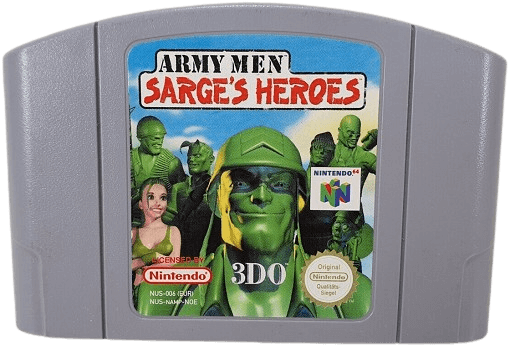
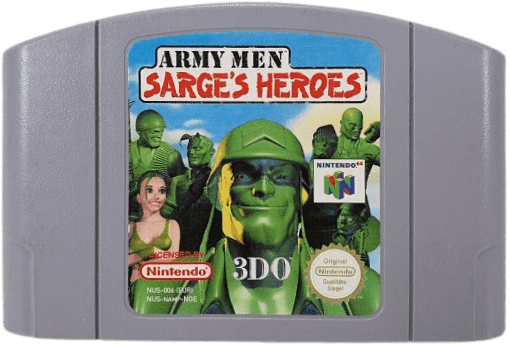
Update
More MK media
Fixed Army Men cart image
Article about oddities!

diff --git a/Blog/Features/2026/Misc/b269.html b/Blog/Features/2026/Misc/b269.html
@@ -1,0 +1,56 @@
+<div id="b269" class="card">
+	<h2><span class="badge tech"><i class="fa-solid fa-pen-to-square"></i></span> <span class="title">Variants, Oddities & Mysteries</span></h2>
+	<h5 class="subtitle">Interesting Brazilian/Spanish Finds ~ Jan 12, 2025</h5>
+	<div class="bgChat" style="background-image:url('Covers/U/Tonic Trouble U.png'); background-position: top; image-rendering: smooth;"><div class="overlaytext">Variants, Oddities & Mysteries</div></div>
+	<h4>Mexico/South America</h4>
+	<div class="titleUnderline"></div>
+	<p>When the Nintendo 64 was released, there were more than a few regional variants produced for specific countries. Throughout my ongoing odyssey to collate all the necessary media for the ReCollect64 Collectors App, I have noted plenty of variations of games that I previously had no idea existed, including one of my biggest discoveries, the previously uncatalogued SCN Scandinavian viariant of <a href="https://defaultdnb.github.io/ReCollect64/blog.html#b21">Rampage World Tour</a>.</p>
+	<p>In recent weeks I have fixed, added, and removed plenty of variants, but having reached "M" in my database, I noted one game variant that was particularly hard to find. <i>Monaco Grand Prix</i> was released in the USA, Canada, and also the much more sparse MSA (Mexico/South America) region. Though there is only one known ROM version of the NTSC cartridge, and they're all coded <b>NUS-NMGE-USA</b>, the outer packaging varies a little regionally, so I sought to document each one individually for completeness.</p>
+	<p>I first heard about a <a href="https://www.videogamesage.com/forums/topic/8976-msa-nintendo-64-region-code/#findComment-351187">"Spanish-backed" variant of the game back in 2023</a>; however, this illusive version proved extremely difficult to locate media for, and so I threw it over to the one person I knew could assist me in the hunt, my good friend JosetteTrinkets, who asked whether I had some other examples of Spanish-backed variants.</p>
+	<p>Having shared a bunch of previously found images as examples (below), we noted a few things. Firstly, each of these titles are Ubisoft published games (then known as Ubi Soft, no, it's not a Mandela Effect). Secondly, most Ubisoft-published game had a Brazilian release through Gradiente, except for a handful, and that handful just so happened to be the ones that we were finding "Spanish-backed". Last of all, we noted that <b><i>Tonic Trouble</i></b> is the only game on that list that hasn't had a Gradiente release, nor has it shown up as a Spanish-backed variant yet!</p>
+	<center>
+		<a title="" href="" onclick="window.open('Backs/ALTU/Buck Bumble ALTU.png','targetWindow', 'toolbar=no, location=no, status=no, menubar=no, scrollbars=no, resizable=no, width=600px, Height=450px, top=150px left=350px'); return false;"><img style="border: 1px solid black;" class="thumbnail" src="Backs/ALTU/Buck Bumble ALTU.png" width="30%" style="padding:auto"/></a>
+		<a title="" href="" onclick="window.open('Backs/ALTU/Rocket Robot on Wheels ALTU.png','targetWindow', 'toolbar=no, location=no, status=no, menubar=no, scrollbars=no, resizable=no, width=600px, Height=450px, top=150px left=350px'); return false;"><img style="border: 1px solid black;" class="thumbnail" src="Backs/ALTU/Rocket Robot on Wheels ALTU.png" width="30%" style="padding:auto"/></a>
+		<a title="" href="" onclick="window.open('Backs/ALTU/S.C.A.R.S. ALTU.png','targetWindow', 'toolbar=no, location=no, status=no, menubar=no, scrollbars=no, resizable=no, width=600px, Height=450px, top=150px left=350px'); return false;"><img style="border: 1px solid black;" class="thumbnail" src="Backs/ALTU/S.C.A.R.S. ALTU.png" width="30%" style="padding:auto"/></a>
+	</center>
+	<p>Follwoing this, one individual image was located for <i>Monaco Grand Prix</i>. The quality is exceptionally low, though most obscure variant images are, so this will have to do for now. If anyone can assist in the scanning and sharing of better quality media for these variants, please feel free to message me at any time because preservation is critical for these obscure versions, as the soft, frail cardboard containers won't last forever.</p>
+	<center>	
+		<a title="" href="" onclick="window.open('Backs/ALTU/Monaco Grand Prix ALTU.png','targetWindow', 'toolbar=no, location=no, status=no, menubar=no, scrollbars=no, resizable=no, width=600px, Height=450px, top=150px left=350px'); return false;"><img style="border: 1px solid black;" class="thumbnail" src="Backs/ALTU/Monaco Grand Prix ALTU.png" width="30%" style="padding:auto"/></a>
+	</center>
+	<center><p><i>(Thanks to JosetteTrinkets' unique ability to seek-out incredibly niche things for the Nintendo 64, we finally have an image to go alongside an otherwise rare/unseen game variant!)</p></i></center>
+	<p></p>
+	<h4>The Ubisoft Anomaly</h4>
+	<div class="titleUnderline"></div>
+	<p>Double-checking my data, Ubisoft released <b>11</b> individual games on the Nintendo 64 between 1997 and 2001, with a couple of regional variants within that shortlist. These titles were <i>All Star Tennis (Yannik Noah All Star Tennis), Batman Beyond (Batman of the Future), Buck Bumble, Donald Duck (Goin' Quackers/Quack Attack), F1 Pole Position (Human Grand Prix), F1 Racing Championship, Monaco Grand Prix/Monaco Racing Simulation 2/Racing Simulation 2, Rayman 2: The Great Escape, Rocket: Robot on Wheels, S.C.A.R.S.</i> and <i>Tonic Trouble</i>.</p>
+	<p>Of these 11 games, just <b>7</b> were released in Brazil through Gradiente (<i>All Star Tennis, Batman, Buck Bumble, Donald Duck, F1 Pole Position, F1 Racing Challenge (note: this is the only NTSC version of the ROM and the only release outside of Europe), and Rayman 2: The Great Escape</i>).</p>
+	<p><b>Three</b> of the remaining four - <i>Monaco, Rocket</i>, and <i>SCARS</i>, though unreleased in Brazil, did get Spanish variants as mentioned above, but <i>Tonic Trouble</i> remains notably absent from this line-up, so does that theoretically mean that there is a Spanish-backed variant of <i>Tonic Trouble</i> out there waiting to be catalogued?</p>
+	<p>Interestingly, most of the Spanish-backed variants located appear to be stickers applied to the back of the NTSC USA release boxes in order to make them regionally appealing to people who speak Spanish (including Argentina, Colombia, and Mexico). Due to high lexical similarities, Spanish is often easily understood by Portuguese-speaking countries as well, which means that Nintendo 64 fans in Brazil could quite easily adopt these versions to add to their collections because they could also read the boxes.</p>
+	<center>	
+		<a title="" href="" onclick="window.open('Covers/E/Tonic Trouble E.png','targetWindow', 'toolbar=no, location=no, status=no, menubar=no, scrollbars=no, resizable=no, width=600px, Height=450px, top=150px left=350px'); return false;"><img style="border: 1px solid black;" class="thumbnail" src="Covers/E/Tonic Trouble E.png" width="30%" style="padding:auto"/></a>
+		<a title="" href="" onclick="window.open('Covers/CAN/Tonic Trouble CAN.png','targetWindow', 'toolbar=no, location=no, status=no, menubar=no, scrollbars=no, resizable=no, width=600px, Height=450px, top=150px left=350px'); return false;"><img style="border: 1px solid black;" class="thumbnail" src="Covers/CAN/Tonic Trouble CAN.png" width="30%" style="padding:auto"/></a>
+		<a title="" href="" onclick="window.open('Covers/U/Tonic Trouble U.png','targetWindow', 'toolbar=no, location=no, status=no, menubar=no, scrollbars=no, resizable=no, width=600px, Height=450px, top=150px left=350px'); return false;"><img style="border: 1px solid black;" class="thumbnail" src="Covers/U/Tonic Trouble U.png" width="30%" style="padding:auto"/></a>
+	</center>
+	<center><p><i>(Tonic Trouble released in Europe, USA and Canada as a variant which had a bonus collectible phone card inside. Monaco Grand Prix was also released in Canada with a similar bonus collectible phone card offer).</i></p></center>
+	<h4>Other Oddities</h4>
+	<div class="titleUnderline"></div>
+	<p>One last thing I wanted to touch on are other regional variants that had similar Spanish backs or are regionally exclusive within Brazil/MSA regions. <i>Fighters Destiny</i>, published by Imagineer, oddly, has a variant that is USA coded but has a Spanish-language version box back. The front cover and cartridge are USA versions, but the back is quite unique.</p>
+	<center>	
+		<a title="" href="" onclick="window.open('Covers/U/Fighters Destiny U.png','targetWindow', 'toolbar=no, location=no, status=no, menubar=no, scrollbars=no, resizable=no, width=600px, Height=450px, top=150px left=350px'); return false;"><img style="border: 1px solid black;" class="thumbnail" src="Backs/U/Fighters Destiny U.png" width="30%" style="padding:auto"/></a>
+		<a title="" href="" onclick="window.open('Backs/ALTU/Fighters Destiny ALTU.png','targetWindow', 'toolbar=no, location=no, status=no, menubar=no, scrollbars=no, resizable=no, width=600px, Height=450px, top=150px left=350px'); return false;"><img style="border: 1px solid black;" class="thumbnail" src="Backs/ALTU/Fighters Destiny ALTU.png" width="30%" style="padding:auto"/></a>
+		<a title="" href="" onclick="window.open('Carts/U/Fighters Destiny U.png','targetWindow', 'toolbar=no, location=no, status=no, menubar=no, scrollbars=no, resizable=no, width=600px, Height=450px, top=150px left=350px'); return false;"><img style="border: 1px solid black;" class="thumbnail" src="Carts/U/Fighters Destiny U.png" width="30%" style="padding:auto"/></a>
+	</center>
+	<p>As mentioned above, the Brazilian Gradiente version of <i>F1 Racing Championship</i> is another unusual example, as it is the only NTSC release of the otherwise PAL-exclusive <i>F1 Racing Championship</i> game. Why this game was released in Brazil must have been due to licensing deals between Nintendo/Ubisoft and Gradiente, their Brazilian distribution partners for the Nintendo 64's games and consoles.</p>
+	<center>	
+		<a title="" href="" onclick="window.open('Covers/BR/F1 Racing Championship BR.png','targetWindow', 'toolbar=no, location=no, status=no, menubar=no, scrollbars=no, resizable=no, width=600px, Height=450px, top=150px left=350px'); return false;"><img style="border: 1px solid black;" class="thumbnail" src="Covers/BR/F1 Racing Championship BR.png" width="30%" style="padding:auto"/></a>
+		<a title="" href="" onclick="window.open('Backs/BR/F1 Racing Championship BR.png','targetWindow', 'toolbar=no, location=no, status=no, menubar=no, scrollbars=no, resizable=no, width=600px, Height=450px, top=150px left=350px'); return false;"><img style="border: 1px solid black;" class="thumbnail" src="Backs/BR/F1 Racing Championship BR.png" width="30%" style="padding:auto"/></a>
+		<a title="" href="" onclick="window.open('Carts/BR/F1 Racing Championship BR.png','targetWindow', 'toolbar=no, location=no, status=no, menubar=no, scrollbars=no, resizable=no, width=600px, Height=450px, top=150px left=350px'); return false;"><img style="border: 1px solid black;" class="thumbnail" src="Carts/BR/F1 Racing Championship BR.png" width="30%" style="padding:auto"/></a>
+	</center>
+	<p>The final oddity I wish to present is that of the MSA variant of <i>WCW Backstage Assault</i>, which comes with a Spanish back and a regionally exclusive grey cartridge. The NTSC USA release came on a blue cartridge; no grey variant was ever released for it in the USA region, and the game never made it to European shores, so no PAL versions, which would be typically grey, exist either.</p>
+	<center>	
+		<a title="" href="" onclick="window.open('Backs/MSA/WCW Backstage Assault MSA.png','targetWindow', 'toolbar=no, location=no, status=no, menubar=no, scrollbars=no, resizable=no, width=600px, Height=450px, top=150px left=350px'); return false;"><img style="border: 1px solid black;" class="thumbnail" src="Backs/MSA/WCW Backstage Assault MSA.png" width="30%" style="padding:auto"/></a>
+		<a title="" href="" onclick="window.open('Carts/MSA/WCW Backstage Assault MSA.png','targetWindow', 'toolbar=no, location=no, status=no, menubar=no, scrollbars=no, resizable=no, width=600px, Height=450px, top=150px left=350px'); return false;"><img style="border: 1px solid black;" class="thumbnail" src="Carts/MSA/WCW Backstage Assault MSA.png" width="30%" style="padding:auto"/></a>
+		<a title="" href="" onclick="window.open('Carts/U/WCW Backstage Assault U.png','targetWindow', 'toolbar=no, location=no, status=no, menubar=no, scrollbars=no, resizable=no, width=600px, Height=450px, top=150px left=350px'); return false;"><img style="border: 1px solid black;" class="thumbnail" src="Carts/U/WCW Backstage Assault U.png" width="30%" style="padding:auto"/></a>
+	</center>
+	<p>If you have any information, higher-resolution images, or thoughts about these variants, then please get in touch with me via the email link below!</p>
+	<p class="subtitle"><i class="fa-regular fa-envelope"></i>&nbsp;<a href="mailto:recollect64official@gmail.com">Seen something cool for N64? Drop me a DM.</a></p>
+</div>

diff --git a/postLinks.html b/postLinks.html
@@ -39,6 +39,16 @@
 <div class="row" id="postlinkscheck">
 	<div id="latest" class="leftcolumn">
 	
+	<div id="b269" class="card" data-keywords="Variants, Oddities & Mysteries Ubisoft Tonic Trouble">
+		<h2><span class="badge tech"><i class="fa-solid fa-pen-to-square"></i></span> <span class="title">Variants, Oddities & Mysteries</span></h2>
+		<h5 class="subtitle">Interesting Brazilian/Spanish Finds ~ Jan 12, 2025</h5>
+		<div class="bgChat" style="background-image:url('Covers/U/Tonic Trouble U.png'); background-position: top; image-rendering: smooth;"><div class="overlaytext">Variants, Oddities & Mysteries</div></div>
+		<p>Looking at weird discoveries found while adding media to the RC64 collectors app!</p>
+		<span class="alignright">
+		<a title="𝗥𝗘𝗔𝗗 𝗔𝗥𝗧𝗜𝗖𝗟𝗘" class="btn" onclick="$(function(){$('#content-placeholder').load('Blog/Features/2026/MISC/b269.html');}); gototop();">MORE <i class="fa-solid fa-chevron-right"></i></a>
+		</span>
+	</div>
+	
 	<div id="b268" class="card">
 		<h2><span class="badge tech"><i class="fa-solid fa-pen-to-square"></i></span> <span class="title">Substance Wars 64 Released!</span></h2>
 		<h5 class="subtitle">Kaze's FPS Built in SM64! ~ Jan 11, 2026</h5>

diff --git a/Blog/Roundup/2026/JANFEATURES.html b/Blog/Roundup/2026/JANFEATURES.html
@@ -5,6 +5,16 @@
 		<div class="badge tech">JANUARY 2026 FEATURES ROUNDUP</div>
 	</div>
 	
+	<div id="b269" class="card">
+		<h2><span class="badge tech"><i class="fa-solid fa-pen-to-square"></i></span> <span class="title">Variants, Oddities & Mysteries</span></h2>
+		<h5 class="subtitle">Interesting Brazilian/Spanish Finds ~ Jan 12, 2025</h5>
+		<div class="bgChat" style="background-image:url('Covers/U/Tonic Trouble U.png'); background-position: top; image-rendering: smooth;"><div class="overlaytext">Variants, Oddities & Mysteries</div></div>
+		<p>Looking at weird discoveries found while adding media to the RC64 collectors app!</p>
+		<span class="alignright">
+		<a title="𝗥𝗘𝗔𝗗 𝗔𝗥𝗧𝗜𝗖𝗟𝗘" class="btn" onclick="$(function(){$('#content-placeholder').load('Blog/Features/2026/MISC/b269.html');}); gototop();">MORE <i class="fa-solid fa-chevron-right"></i></a>
+		</span>
+	</div>
+	
 	<div id="b268" class="card">
 		<h2><span class="badge tech"><i class="fa-solid fa-pen-to-square"></i></span> <span class="title">Substance Wars 64 Released!</span></h2>
 		<h5 class="subtitle">Kaze's FPS Built in SM64! ~ Jan 11, 2026</h5>

diff --git a/nav.html b/nav.html
@@ -179,6 +179,7 @@
 				<div class="subsubsubnav">
 					<div class="subsubsubnavbtn" title="𝗖𝗟𝗜𝗖𝗞 𝗙𝗢𝗥 𝗥𝗢𝗨𝗡𝗗𝗨𝗣" onclick="$(function(){$('#content-placeholder').load('Blog/Roundup/2026/JANFEATURES.html');}); gototop();">JAN</div>
 						<div class="subsubsubnav-content">
+							<a onclick="$(function(){$('#content-placeholder').load('Blog/Features/2026/Misc/b269.html');}); gototop();">Variants, Oddities & Mysteries</a>
 							<a onclick="$(function(){$('#content-placeholder').load('Blog/Features/2026/SW64/b268.html');}); gototop();">Substance Wars 64 Released</a>
 							<a onclick="$(function(){$('#content-placeholder').load('Blog/Features/2026/Misc/b267.html');}); gototop();">Two New JPN Translations WIP</a>
 							<a onclick="$(function(){$('#content-placeholder').load('Blog/Features/2026/Misc/b266.html');}); gototop();">SM64 DC Port Updated</a>
